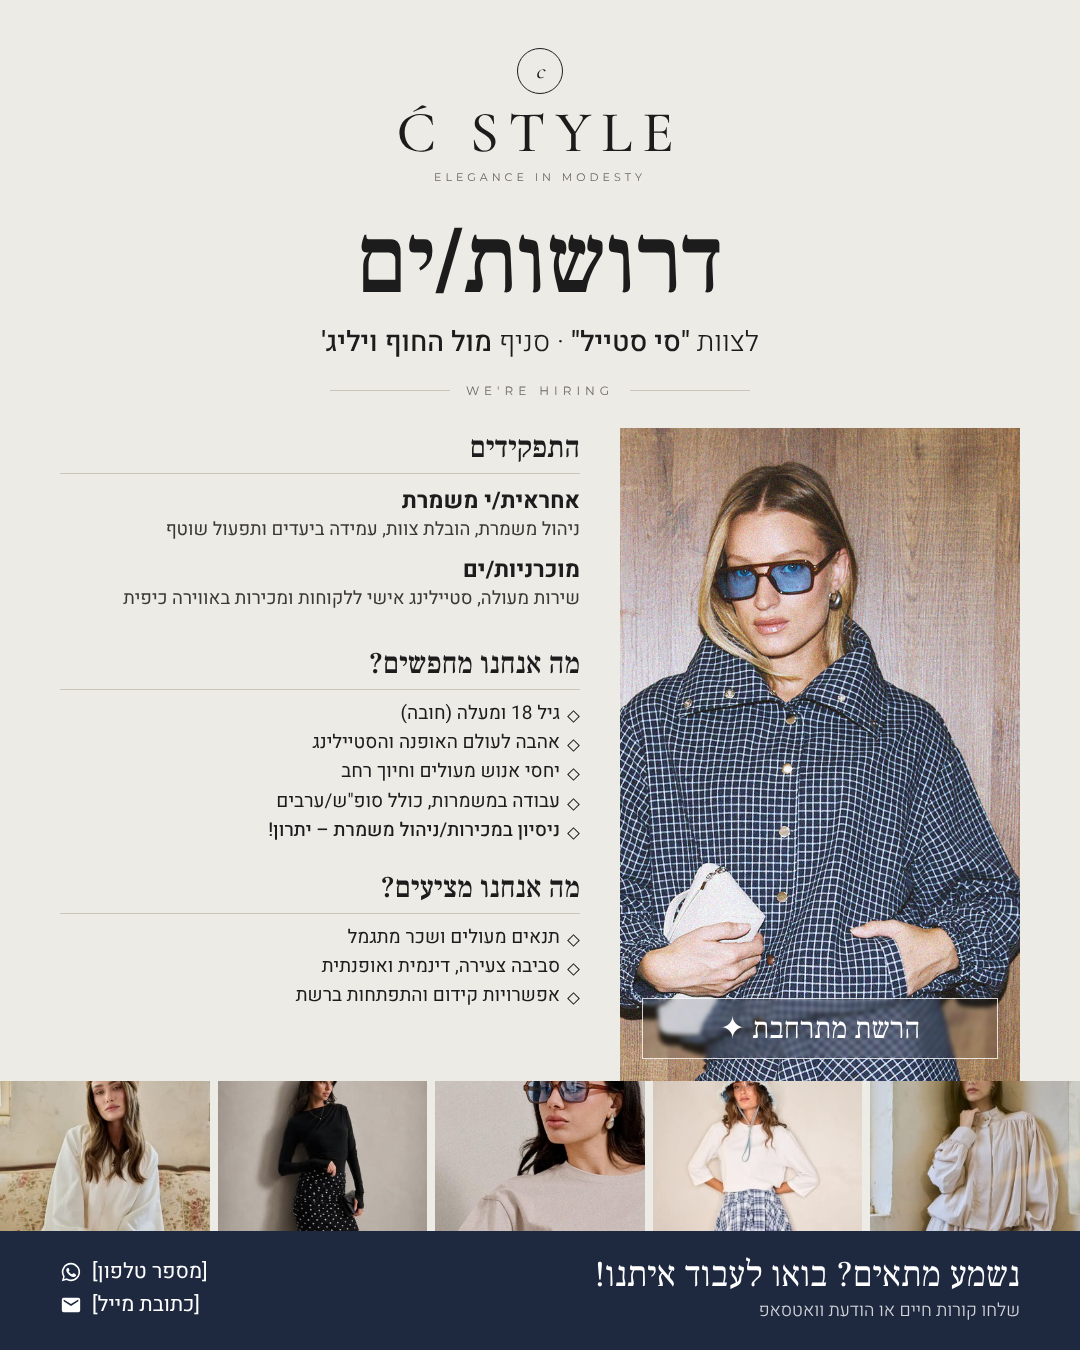
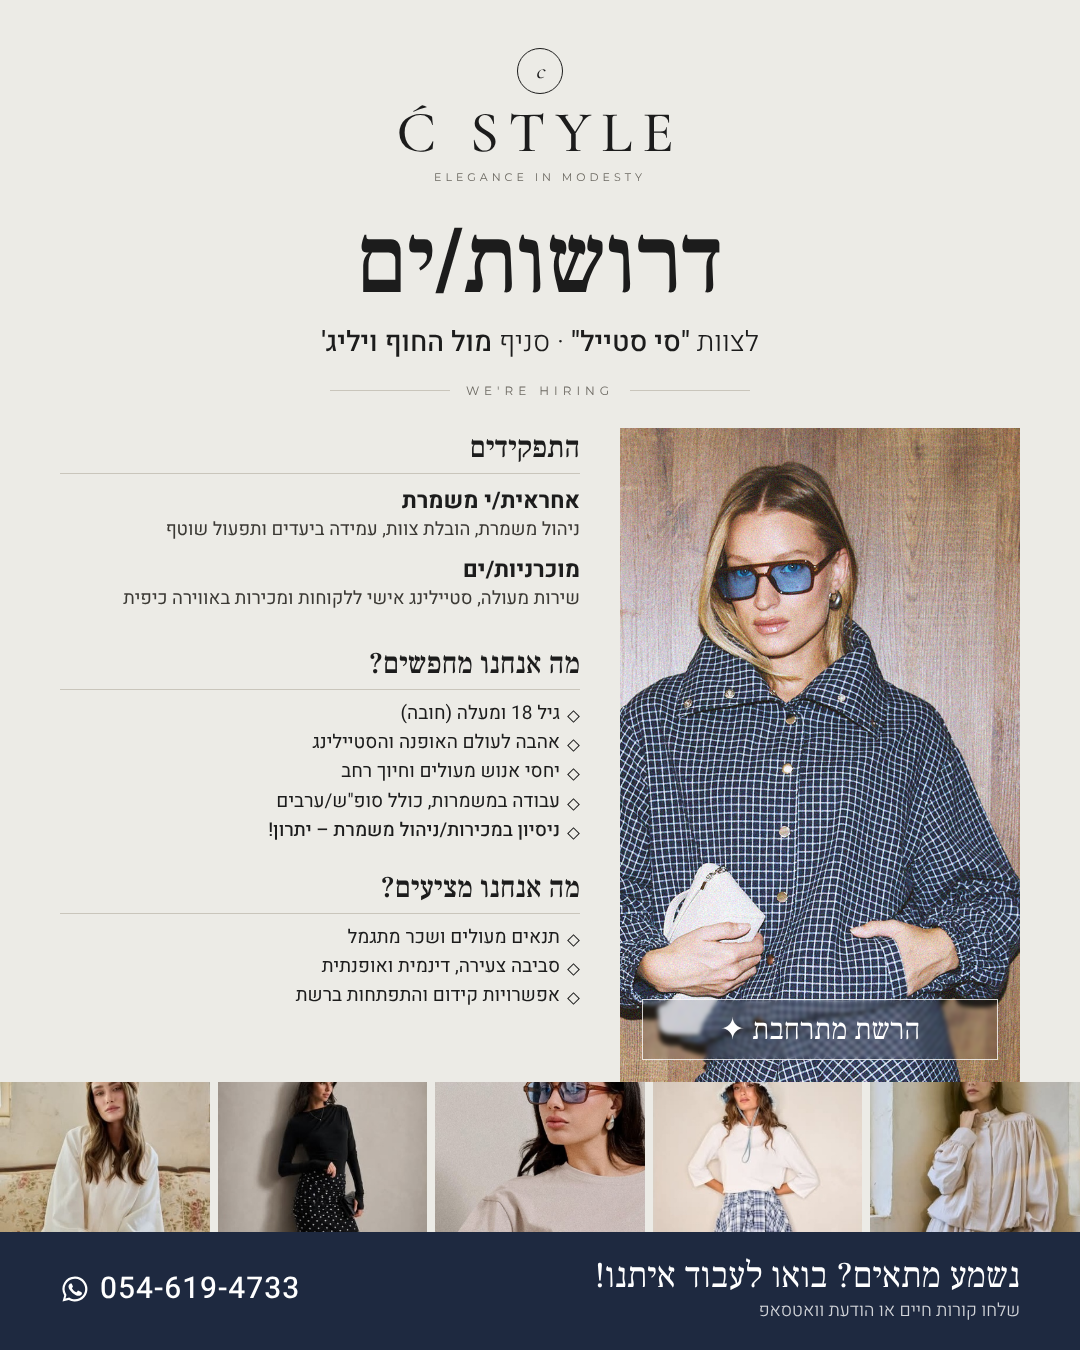
C Style ad: add phone number, remove email
Claude-Session: https://claude.ai/code/session_01Dh3WpVWUavc1Rsdzd2JvKH

diff --git a/c-style-job-ad/post.html b/c-style-job-ad/post.html
@@ -44,7 +44,7 @@
   .cta .q small{display:block;font-family:Heebo;font-size:18px;font-weight:300;opacity:.8;margin-top:4px}
   .cta .contacts{text-align:left;font-size:21px;line-height:1.6}
   .cta .contacts div{display:flex;align-items:center;gap:10px;justify-content:flex-end}
-  .cta svg{width:22px;height:22px;fill:#fff;flex:none}
+  .cta svg{width:30px;height:30px;fill:#fff;flex:none}
 </style>
 </head>
 <body>
@@ -104,8 +104,7 @@
   <div class="cta">
     <div class="q">נשמע מתאים? בואו לעבוד איתנו!<small>שלחו קורות חיים או הודעת וואטסאפ</small></div>
     <div class="contacts">
-      <div><span>[מספר טלפון]</span><svg viewBox="0 0 24 24"><path d="M12 2a10 10 0 0 0-8.6 15.1L2 22l5-1.3A10 10 0 1 0 12 2zm0 18.2c-1.5 0-3-.4-4.3-1.2l-.3-.2-3 .8.8-2.9-.2-.3A8.2 8.2 0 1 1 12 20.2zm4.5-6.1c-.2-.1-1.5-.7-1.7-.8s-.4-.1-.6.1-.6.8-.8 1-.3.2-.5.1a6.7 6.7 0 0 1-3.3-2.9c-.3-.4.3-.4.7-1.4.1-.2 0-.3 0-.4l-.8-1.8c-.2-.5-.4-.4-.6-.4h-.5a1 1 0 0 0-.7.3 3 3 0 0 0-.9 2.2 5.2 5.2 0 0 0 1.1 2.7 11.8 11.8 0 0 0 4.5 4c1.7.7 2.3.8 3.2.6a2.7 2.7 0 0 0 1.8-1.2 2.2 2.2 0 0 0 .1-1.3c0-.1-.2-.2-.4-.3z"/></svg></div>
-      <div><span>[כתובת מייל]</span><svg viewBox="0 0 24 24"><path d="M20 4H4a2 2 0 0 0-2 2v12a2 2 0 0 0 2 2h16a2 2 0 0 0 2-2V6a2 2 0 0 0-2-2zm0 4-8 5-8-5V6l8 5 8-5z"/></svg></div>
+      <div><span style="direction:ltr;font-size:30px;font-weight:500;letter-spacing:1px">054-619-4733</span><svg viewBox="0 0 24 24"><path d="M12 2a10 10 0 0 0-8.6 15.1L2 22l5-1.3A10 10 0 1 0 12 2zm0 18.2c-1.5 0-3-.4-4.3-1.2l-.3-.2-3 .8.8-2.9-.2-.3A8.2 8.2 0 1 1 12 20.2zm4.5-6.1c-.2-.1-1.5-.7-1.7-.8s-.4-.1-.6.1-.6.8-.8 1-.3.2-.5.1a6.7 6.7 0 0 1-3.3-2.9c-.3-.4.3-.4.7-1.4.1-.2 0-.3 0-.4l-.8-1.8c-.2-.5-.4-.4-.6-.4h-.5a1 1 0 0 0-.7.3 3 3 0 0 0-.9 2.2 5.2 5.2 0 0 0 1.1 2.7 11.8 11.8 0 0 0 4.5 4c1.7.7 2.3.8 3.2.6a2.7 2.7 0 0 0 1.8-1.2 2.2 2.2 0 0 0 .1-1.3c0-.1-.2-.2-.4-.3z"/></svg></div>
     </div>
   </div>
 </div>
